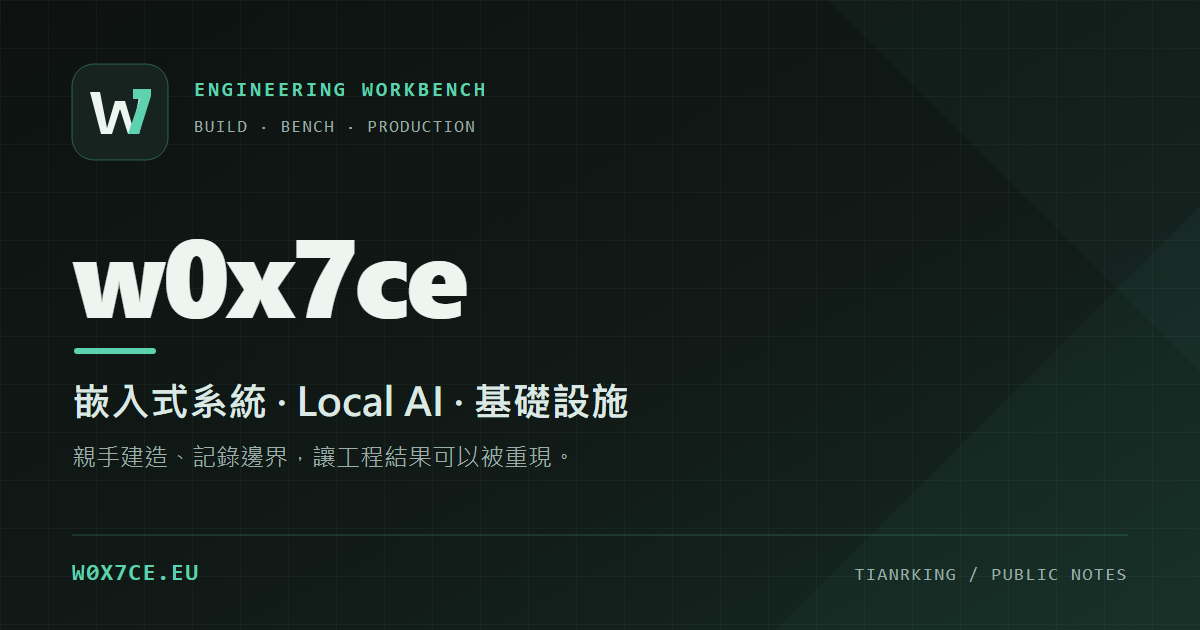
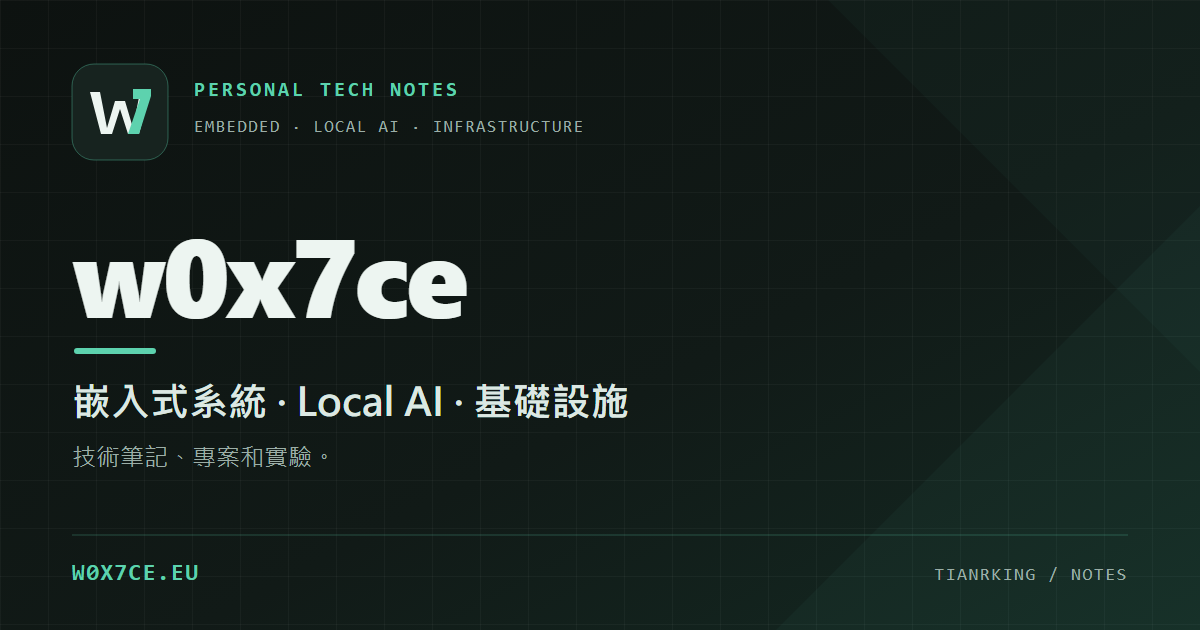
Use a natural personal blog voice (#77)

diff --git a/src/pages/index.js b/src/pages/index.js
@@ -62,14 +62,14 @@ function HomepageHero() {
       <div className={styles.heroGrid} aria-hidden="true" />
       <div className={`container ${styles.heroInner}`}>
         <div className={styles.heroCopy}>
-          <span className={styles.identity}>w0x7ce / engineering field notes</span>
-          <Heading as="h1">把做過、拆過、驗證過的系統寫下來。</Heading>
+          <span className={styles.identity}>w0x7ce / personal notes</span>
+          <Heading as="h1">寫程式、玩硬體，也記下遇到的問題。</Heading>
           <p className={styles.lead}>
-            嵌入式系統、Local AI 與基礎設施的實作紀錄。不是技術名詞的陳列，而是從原始碼到實板、從原型到運行中的完整證據鏈。
+            這裡主要放嵌入式系統、Local AI、基礎設施相關的筆記，也有最近在做的專案和一些小實驗。
           </p>
           <div className={styles.heroActions}>
             <Link className={styles.primaryAction} to="/projects">
-              查看精選專案 <span aria-hidden="true">→</span>
+              看看最近的專案 <span aria-hidden="true">→</span>
             </Link>
             <Link className={styles.secondaryAction} to="/tutorial">
               閱讀技術筆記
@@ -82,28 +82,28 @@ function HomepageHero() {
           </div>
         </div>
 
-        <aside className={styles.signalPanel} aria-label="工程方法">
+        <aside className={styles.signalPanel} aria-label="網站內容">
           <div className={styles.panelHeader}>
-            <span>METHOD / EVIDENCE</span>
+            <span>ON THIS SITE</span>
             <span className={styles.liveIndicator}>NOW</span>
           </div>
           <ol className={styles.evidenceList}>
             <li>
               <span>01</span>
-              <div><strong>Build</strong><small>source · toolchain · artifact</small></div>
+              <div><strong>Notes</strong><small>guides · debugging · references</small></div>
             </li>
             <li>
               <span>02</span>
-              <div><strong>Bench</strong><small>device · signal · measurement</small></div>
+              <div><strong>Projects</strong><small>hardware · software · tools</small></div>
             </li>
             <li>
               <span>03</span>
-              <div><strong>Publish</strong><small>notes · release · reproducibility</small></div>
+              <div><strong>Labs</strong><small>services · demos · experiments</small></div>
             </li>
           </ol>
           <div className={styles.panelFooter}>
-            <span>目前聚焦</span>
-            <strong>讓硬體 bring-up 的每一步都可診斷</strong>
+            <span>最近在寫</span>
+            <strong>TLSR8258 開發與燒錄筆記</strong>
           </div>
         </aside>
       </div>
@@ -117,8 +117,8 @@ export default function Home() {
 
   return (
     <Layout
-      title="w0x7ce 技術工作台"
-      description="嵌入式系統、Local AI 與基礎設施的實作紀錄。">
+      title="w0x7ce"
+      description="嵌入式系統、Local AI 與基礎設施筆記。">
       <main className={styles.page}>
         <HomepageHero />
 
@@ -126,8 +126,8 @@ export default function Home() {
           <div className={`container ${styles.nowInner}`}>
             <span className={styles.nowLabel}>NOW</span>
             <div>
-              <Heading id="now-heading" as="h2">正在把零散的 bring-up 經驗整理成可重現的工程筆記。</Heading>
-              <p>工具版本、接線、失敗症狀與實板驗證會放在同一條路徑裡，而不只留下「最後成功了」。</p>
+              <Heading id="now-heading" as="h2">最近在整理 TLSR8258 的開發與燒錄筆記。</Heading>
+              <p>包含工具鏈、接線、常見錯誤與實板測試記錄。</p>
             </div>
             <Link to="/embedded/telink/tlsr8258/sws-build-flash-verify">
               查看目前筆記 <span aria-hidden="true">↗</span>
@@ -138,9 +138,9 @@ export default function Home() {
         <section className={styles.section} aria-labelledby="projects-heading">
           <div className="container">
             <SectionHeading
-              eyebrow="SELECTED WORK"
-              title={<span id="projects-heading">精選專案</span>}
-              description="以問題、工程角色與驗證狀態策展，而不是把整個 GitHub 倉庫列表搬過來。"
+              eyebrow="RECENT PROJECTS"
+              title={<span id="projects-heading">最近的專案</span>}
+              description="幾個正在維護或最近整理的公開專案。"
               action={(
                 <Link className={styles.textAction} to="/projects">
                   全部專案 <span aria-hidden="true">→</span>
@@ -163,9 +163,9 @@ export default function Home() {
         <section className={`${styles.section} ${styles.outputSection}`} aria-labelledby="output-heading">
           <div className="container">
             <SectionHeading
-              eyebrow="RECENT OUTPUT"
+              eyebrow="RECENTLY"
               title={<span id="output-heading">最近發布</span>}
-              description="長期可維護的內容放進技術筆記；有時間脈絡的過程與觀點留在開發誌。"
+              description="最近更新的技術筆記與開發紀錄。"
             />
             <div className={styles.outputGrid}>
               {recentWork.map((item) => (
@@ -186,8 +186,8 @@ export default function Home() {
         <section className={styles.section} aria-labelledby="browse-heading">
           <div className="container">
             <SectionHeading
-              eyebrow="BROWSE THE WORKBENCH"
-              title={<span id="browse-heading">從你需要的資訊進入</span>}
+              eyebrow="BROWSE"
+              title={<span id="browse-heading">瀏覽更多內容</span>}
             />
             <div className={styles.entranceGrid}>
               {entrances.map((entrance) => (
@@ -206,8 +206,8 @@ export default function Home() {
           <div className={`container ${styles.closingInner}`}>
             <span className={styles.closingMark} aria-hidden="true">W7</span>
             <div>
-              <span className={styles.eyebrow}>OPEN WORK</span>
-              <Heading as="h2">原始碼只是起點，能被重現才算完成。</Heading>
+              <span className={styles.eyebrow}>GITHUB</span>
+              <Heading as="h2">更多程式碼和專案都在 GitHub。</Heading>
             </div>
             <a href="https://github.com/tianrking" target="_blank" rel="noopener noreferrer">
               GitHub / tianrking <span aria-hidden="true">↗</span>

diff --git a/src/pages/projects/index.js b/src/pages/projects/index.js
@@ -64,21 +64,16 @@ export default function ProjectsPage() {
   return (
     <Layout
       title="專案"
-      description="w0x7ce 的精選嵌入式、Local AI、基礎設施與應用專案。">
+      description="一些嵌入式、Local AI、基礎設施與應用專案。">
       <main className={styles.page}>
         <header className={styles.hero}>
           <div className="container">
-            <span className={styles.eyebrow}>PROJECT INDEX / CURATED</span>
-            <Heading as="h1">專案不是倉庫清單，<br />而是一段段完成工作的證據。</Heading>
+            <span className={styles.eyebrow}>PROJECTS</span>
+            <Heading as="h1">最近做的一些專案。</Heading>
             <div className={styles.heroBottom}>
               <p>
-                這裡只選擇有代表性的作品，呈現它解決的問題、主要技術、維護狀態與公開成果。Fork、練習和一次性測試不會自動進入列表。
+                有些已經能用，有些還在慢慢更新。可以依領域、狀態和語言篩選，其他公開專案都在 GitHub。
               </p>
-              <div className={styles.legend} aria-label="證據分層說明">
-                <span><i className={styles.buildDot} /> Build</span>
-                <span><i className={styles.benchDot} /> Bench</span>
-                <span><i className={styles.productionDot} /> Production</span>
-              </div>
             </div>
           </div>
         </header>
@@ -88,7 +83,7 @@ export default function ProjectsPage() {
             <div className={styles.toolbar}>
               <div>
                 <span className={styles.eyebrow}>FILTER</span>
-                <Heading id="project-index-heading" as="h2">精選作品</Heading>
+                <Heading id="project-index-heading" as="h2">專案列表</Heading>
               </div>
               <div className={styles.filters}>
                 <FilterGroup
@@ -134,7 +129,7 @@ export default function ProjectsPage() {
               <div className={styles.empty}>
                 <span aria-hidden="true">00</span>
                 <Heading as="h3">沒有符合這組條件的專案</Heading>
-                <p>調整篩選，或回到完整的精選作品列表。</p>
+                <p>調整篩選，或查看全部專案。</p>
                 <button type="button" onClick={resetFilters}>清除篩選</button>
               </div>
             )}
@@ -143,11 +138,11 @@ export default function ProjectsPage() {
 
         <section className={styles.principle}>
           <div className={`container ${styles.principleInner}`}>
-            <span className={styles.principleNumber}>01—03</span>
+            <span className={styles.principleNumber}>MORE</span>
             <div>
-              <span className={styles.eyebrow}>EDITORIAL POLICY</span>
-              <Heading as="h2">選擇少一點，說清楚多一點。</Heading>
-              <p>每個專案都應能回答三個問題：它解決什麼、我實際做了什麼、目前驗證到哪一層。</p>
+              <span className={styles.eyebrow}>ON GITHUB</span>
+              <Heading as="h2">其他公開專案</Heading>
+              <p>這裡只列出一部分，完整列表可以到 GitHub 查看。</p>
             </div>
             <a href="https://github.com/tianrking?tab=repositories" target="_blank" rel="noopener noreferrer">
               查看所有公開倉庫 <span aria-hidden="true">↗</span>

diff --git a/src/pages/projects/styles.module.css b/src/pages/projects/styles.module.css
@@ -18,7 +18,6 @@
 }
 
 .eyebrow,
-.legend,
 .filter,
 .resultSummary,
 .principleNumber {
@@ -43,11 +42,7 @@
 }
 
 .heroBottom {
-  display: grid;
-  grid-template-columns: minmax(0, 45rem) auto;
-  justify-content: space-between;
-  gap: 3rem;
-  align-items: end;
+  max-width: 45rem;
 }
 
 .heroBottom > p {
@@ -55,40 +50,6 @@
   color: var(--project-page-muted);
   font-size: 1rem;
   line-height: 1.75;
-}
-
-.legend {
-  display: flex;
-  flex-wrap: wrap;
-  gap: 1rem;
-  color: var(--project-page-muted);
-  font-size: 0.66rem;
-  text-transform: uppercase;
-}
-
-.legend span {
-  display: inline-flex;
-  align-items: center;
-  gap: 0.4rem;
-}
-
-.legend i {
-  width: 0.45rem;
-  height: 0.45rem;
-  border-radius: 50%;
-  background: var(--project-page-line);
-}
-
-.legend .buildDot {
-  background: #64748b;
-}
-
-.legend .benchDot {
-  background: #ca8a04;
-}
-
-.legend .productionDot {
-  background: var(--project-page-accent);
 }
 
 .indexSection {
@@ -272,7 +233,6 @@
 }
 
 @media (max-width: 700px) {
-  .heroBottom,
   .principleInner {
     grid-template-columns: 1fr;
     gap: 1.5rem;

diff --git a/src/pages/labs/index.jsx b/src/pages/labs/index.jsx
@@ -174,12 +174,12 @@ export default function Labs() {
   }
 
   return (
-    <Layout title="實驗場" description="w0x7ce 維護的開發服務、基礎設施與互動實驗。">
+    <Layout title="實驗場" description="w0x7ce 的公開服務、工具與實驗。">
       <main className={styles.page}>
         <header className={styles.hero}>
-          <p className={styles.eyebrow}>LAB / PUBLIC WORKBENCH</p>
+          <p className={styles.eyebrow}>LABS</p>
           <h1>實驗場</h1>
-          <p>正在運作的基礎設施、可直接使用的工具，以及尚在演化中的小型實驗。</p>
+          <p>一些自己在用的服務、工具和小實驗。</p>
           <div className={styles.notice}>
             這裡展示公開入口，不代表服務等級承諾；使用前請確認頁面狀態與最後更新資訊。
           </div>

diff --git a/docusaurus.config.js b/docusaurus.config.js
@@ -8,8 +8,8 @@ import {themes as prismThemes} from 'prism-react-renderer';
 import clsx from 'clsx';
 /** @type {import('@docusaurus/types').Config} */
 const config = {
-  title: 'w0x7ce — 技術工作台',
-  tagline: '嵌入式系統、Local AI 與基礎設施的實作紀錄',
+  title: 'w0x7ce',
+  tagline: '嵌入式系統、Local AI 與基礎設施筆記',
   favicon: 'img/favicon.ico',
 
   // Set the production url of your site here
@@ -202,7 +202,7 @@ const config = {
             ],
           },
         ],
-        copyright: `Copyright © ${new Date().getFullYear()} w0x7ce. 寫下親手建造與驗證的系統。`,
+        copyright: `Copyright © ${new Date().getFullYear()} w0x7ce.`,
       },
       prism: {
         theme: prismThemes.github,

diff --git a/src/theme/Footer/index.js b/src/theme/Footer/index.js
@@ -14,7 +14,7 @@ export default function Footer() {
       <div className={`container ${styles.inner}`}>
         <div className={styles.identity}>
           <Link className={styles.brand} to="/">w0x7ce</Link>
-          <p>把做過、拆過與驗證過的系統寫下來。</p>
+          <p>技術筆記、專案和小實驗。</p>
           <p className={styles.scope}>Embedded systems · Local AI · Infrastructure</p>
         </div>
         <nav className={styles.navigation} aria-label="頁尾導覽">

diff --git a/README.md b/README.md
@@ -1,13 +1,13 @@
-# w0x7ce 技術工作台
+# w0x7ce.eu
 
-[w0x7ce.eu](https://w0x7ce.eu) 是一個以繁體中文為主的個人工程工作台，整理嵌入式系統、Local AI、基礎設施、公開專案與可重現實驗。網站使用 Docusaurus 3 建置，內容與介面都直接維護在這個倉庫。
+[w0x7ce.eu](https://w0x7ce.eu) 是我的個人技術博客，主要記錄嵌入式系統、Local AI、基礎設施、公開專案和一些實驗。網站使用 Docusaurus 3 建置。
 
 ## 內容結構
 
 - `docs/`：可長期維護的技術筆記與實作指南。
 - `blog/`：帶有時間脈絡的開發紀錄、決策與回顧。
 - `src/data/featured-projects.json`：首頁與專案頁的公開專案白名單。
-- `src/pages/projects/`：精選專案與驗證狀態。
+- `src/pages/projects/`：專案頁與篩選功能。
 - `src/pages/labs/`：公開服務、工具與實驗入口。
 - `static/data/featured-projects.json`：由 GitHub 公開 API 產生的最小化唯讀快照。
 
@@ -32,7 +32,7 @@ npm run build
 
 1. 長期指南放進 `docs/`，並在 `sidebars.js` 指定清楚的分類與順序。
 2. 有日期脈絡的內容放進 `blog/`，保留作者、標籤、摘要與可分享圖片。
-3. 精選專案只修改 `src/data/featured-projects.json`；腳本只允許 `tianrking` 名下、明確列入白名單的公開倉庫。
+3. 首頁與專案頁顯示的專案只修改 `src/data/featured-projects.json`；腳本只允許 `tianrking` 名下、明確列入白名單的公開倉庫。
 4. 新增公開工具或服務時更新 `src/pages/labs/index.jsx`，並確認入口、說明與示例指令仍然有效。
 5. 移動或刪除既有頁面時，在 `docusaurus.config.js` 補上 redirect，避免舊連結失效。
 
